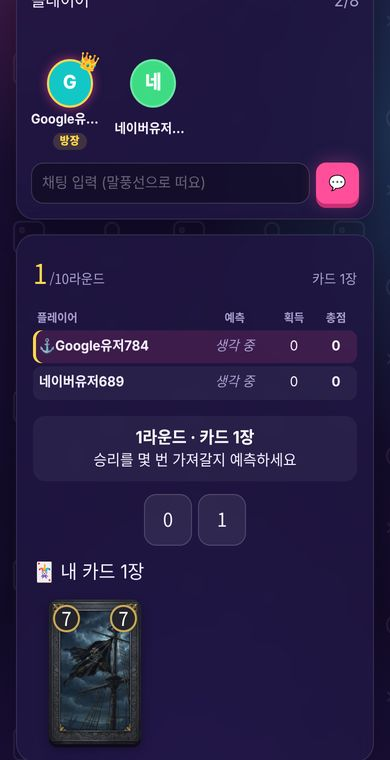
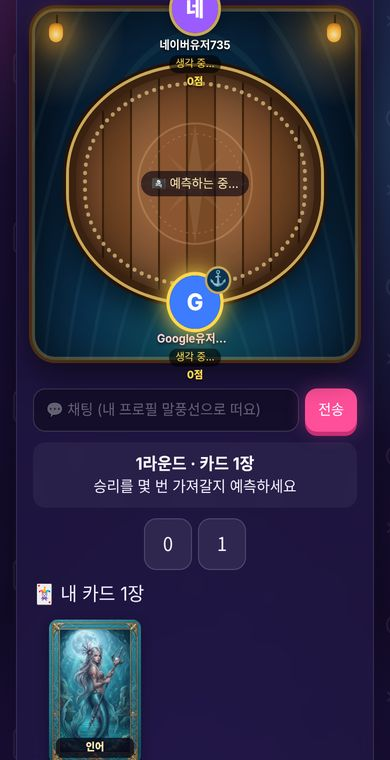
스컬킹: 해적선 갑판 테이블, 자리 배치, 카드 날아가기·승자에게 모으기, 채팅 말풍선
Claude-Session: https://claude.ai/code/session_018kcaK1YQGkv4UBC623yDa1

diff --git a/js/games/skullking.js b/js/games/skullking.js
@@ -154,7 +154,11 @@ export function cardHtml(id, { small = false } = {}) {
   return `<div class="skc ${small ? 'sm' : ''} sp-${c.kind}" title="${esc(cardName(c))}">${img}<span class="skc-name">${esc(cardName(c))}</span></div>`;
 }
 
-const fx = { bid: '', trick: '' };
+const fx = { bid: '', rk: '', tno: 0, hold: null, ckey: '', cnt: 0 };
+const HOLD_MS = 2800;
+const chat = { draft: '', focus: false };
+let lastCtx = null;
+const COMPASS = `<svg viewBox="0 0 100 100"><circle cx="50" cy="50" r="46" fill="none" stroke="currentColor" stroke-width="1.5"/><circle cx="50" cy="50" r="38" fill="none" stroke="currentColor" stroke-width=".8" stroke-dasharray="2 3"/><path d="M50 4 L56 44 L96 50 L56 56 L50 96 L44 56 L4 50 L44 44 Z" fill="currentColor" opacity=".55"/><path d="M50 18 L53 47 L82 50 L53 53 L50 82 L47 53 L18 50 L47 47 Z" fill="currentColor" opacity=".35" transform="rotate(45 50 50)"/><circle cx="50" cy="50" r="4" fill="currentColor"/></svg>`;
 
 // 라운드가 끝나면 새 창: 왼쪽 플레이어, 오른쪽 트릭별 기록
 function roundModal(state, me, players, finished, sendMove) {
@@ -313,14 +317,15 @@ export default {
         fx.bid = bk;
         bigFlash(`<div class="sk-yoho"><b>요호호! 🏴☠</b><div>${state.order.map((u) => `<span>${name(u)} <i>${state.bids[u]}</i></span>`).join('')}</div></div>`, 2200, 'sk-flash');
       }
-      // 트릭이 끝나면 누가 가져갔는지
-      const tk = `${bk}:${Object.values(state.won).join()}`;
-      if (state.lastTrick && fx.trick !== tk) {
-        const first = fx.trick === '';
-        fx.trick = tk;
-        if (!first) { bigFlash(`<div class="sk-win">⚓ <b>${name(state.lastTrick.winner)}</b>님이 가져갔어요!${state.lastTrick.note ? `<small>${esc(state.lastTrick.note)}</small>` : ''}</div>`, 1500, 'sk-flash'); sfxCard(); }
+      // 트릭이 끝나면 가운데에 잠깐 남겨 두었다가 이긴 사람에게 카드가 날아가요
+      const tno = Object.values(state.won).reduce((a, b) => a + b, 0);
+      if (fx.rk !== bk) { if (fx.rk) fx.cnt = 0; fx.rk = bk; fx.tno = tno; }
+      else if (tno > fx.tno && state.lastTrick) {
+        fx.tno = tno;
+        fx.hold = { k: `${bk}:${tno - 1}`, until: Date.now() + HOLD_MS, uid: state.lastTrick.winner };
       }
     }
+    lastCtx = { el, ctx, self: this };
     if (ui.key !== key) ui = { key, pick: null };
 
     const scoreTable = (withRound) => `
@@ -371,38 +376,128 @@ export default {
       banner = myTurn ? `<span><b>내 차례!</b> ${lead ? `기준 색 <b style="color:${SUITS[lead].color === '#23232b' ? '#c9c9d6' : SUITS[lead].color}">${SUITS[lead].name}</b>` : '카드를 내세요'}</span>` : `<span><b>${name(turnUid)}</b>님 차례</span>`;
     } else {
       banner = `<span><b>${state.ri + 1}라운드 끝!</b> 점수를 확인하세요</span>`;
-      action = `<button class="btn primary block" data-next>다음 라운드 (카드 ${state.rounds[state.ri + 1]}장) ▶</button>`;
+      action = state.ri < state.rounds.length - 1 ? `<button class="btn primary block" data-next>다음 라운드 (카드 ${state.rounds[state.ri + 1]}장) ▶</button>` : '';
     }
 
-    const trickView = (plays, winner) => `<div class="sk-trick">${plays.map((t) => `
-      <div class="sk-play ${winner === t.uid ? 'win' : ''}">${cardHtml(t.card, { small: true })}<span>${name(t.uid)}${t.as ? `<small>${t.as === 'pirate' ? '해적으로' : '도망으로'}</small>` : ''}</span></div>`).join('')}
-      ${state.phase === 'play' && plays === state.trick && plays.length < state.order.length ? `<div class="sk-play wait"><div class="skc sm empty">?</div><span>${name(turnUid)}</span></div>` : ''}
-    </div>`;
+    // ── 해적선 갑판: 나는 항상 아래 가운데 ──
+    const n = state.order.length;
+    const meIdx = Math.max(0, state.order.indexOf(me));
+    const tno = Object.values(state.won).reduce((a, b) => a + b, 0);
+    const holding = fx.hold && Date.now() < fx.hold.until && !state.trick.length && state.lastTrick;
+    const plays = holding ? state.lastTrick.plays : state.trick;
+    const tKey = holding ? fx.hold.k : `${room?.code}:${room?.startedAt}:${state.ri}:${tno}`;
+    const winU = holding ? state.lastTrick.winner : null;
+    const leader = state.order[state.leaderIdx];
+    const seats = state.order.map((u, k) => {
+      const i = (k - meIdx + n) % n;
+      const ang = Math.PI / 2 + (i / n) * Math.PI * 2;
+      const x = 50 + Math.cos(ang) * 43, y = 50 + Math.sin(ang) * 41;
+      const bid = state.bids[u];
+      const stat = state.phase === 'bid' ? (bid === null ? '<i class="think">생각 중…</i>' : '<i class="done">예측 완료</i>')
+        : `<span class="skx-bw ${bid !== null && state.won[u] === bid ? 'hit' : state.won[u] > bid ? 'over' : ''}">🎯${bid} · ⚔${state.won[u]}</span>`;
+      return `<div class="skx-seat ${u === me ? 'me' : ''} ${u === turnUid && !holding ? 'turn' : ''} ${winU === u ? 'win' : ''} ${y < 45 ? 'up' : ''}" data-u="${esc(u)}" style="left:${x}%;top:${y}%">
+        <span class="seat-bubble" data-bub="${esc(u)}"></span>
+        <span class="skx-face">${faceHtml(players[u] || { name: '?' })}${u === leader && state.phase !== 'roundEnd' ? '<i class="skx-lead" title="이번 트릭 선">⚓</i>' : ''}</span>
+        <b class="skx-name">${name(u)}</b>
+        ${stat}
+        <em class="skx-score">${state.scores[u]}점</em>
+      </div>`;
+    }).join('');
+    const cw = n <= 3 ? 60 : n === 4 ? 52 : n === 5 ? 42 : n === 6 ? 36 : 30;
+    const center = plays.length || state.phase === 'play' ? `<div class="skx-trick" style="--cw:${cw}px">${plays.map((t, k) => `
+        <div class="skx-slot ${winU === t.uid ? 'win' : ''}" data-i="${k}" data-from="${esc(t.uid)}">${cardHtml(t.card, { small: true })}<span>${name(t.uid)}</span></div>`).join('')}
+        ${!holding && state.phase === 'play' && plays.length < n ? `<div class="skx-slot wait"><div class="skc sm empty">?</div><span>${name(turnUid)}</span></div>` : ''}
+      </div>` : '';
+    const label = holding
+      ? `<div class="skx-cap win">⚓ <b>${name(winU)}</b> 승리!${state.lastTrick.note ? ` <em>${esc(state.lastTrick.note)}</em>` : ''}</div>`
+      : state.phase === 'play' ? `<div class="skx-cap">${lead ? `기준 색 <b style="color:${SUITS[lead].color === '#23232b' ? '#e8e8f0' : SUITS[lead].color}">${SUITS[lead].name}</b>` : `<b>${tno + 1}번째 트릭</b>`}</div>`
+      : state.phase === 'bid' ? `<div class="skx-cap">🏴☠ 예측하는 중…</div>` : '';
 
     el.innerHTML = `
-      <div class="sk">
+      <div class="sk skx">
         <div class="sk-head"><span class="sk-round">${state.ri + 1}<small>/${state.rounds.length}라운드</small></span><span class="sk-cards">카드 ${cards}장</span></div>
-        ${scoreTable(state.phase === 'roundEnd')}
-        ${state.phase === 'play' ? `<div class="sk-zone"><div class="sk-zone-t">🏴☠ 이번 트릭</div>${trickView(state.trick)}</div>` : ''}
+        <div class="skx-stage">
+          <i class="skx-lamp l"></i><i class="skx-lamp r"></i>
+          <div class="skx-deck"><div class="skx-rope"></div><div class="skx-compass">${COMPASS}</div>
+            <div class="skx-mid">${label}${center}</div>
+          </div>
+          ${seats}
+        </div>
+        ${isPlayer ? `<form class="sp-chat skx-chat"><input maxlength="60" placeholder="💬 채팅 (내 프로필 말풍선으로 떠요)" autocomplete="off" enterkeyhint="send"><button class="btn sm primary">전송</button></form>` : ''}
         <div class="nb-banner">${banner}</div>
         ${action}
         ${isPlayer && hand.length ? `
           <div class="ud-mine-title">🃏 내 카드 ${hand.length}장 ${myTurn ? '<small>낼 수 있는 카드만 밝게 보여요</small>' : ''}</div>
           <div class="sk-hand">${hand.map((id) => {
             const ok = myTurn && canPlay(myHand, state.trick, id);
-            return `<button class="sk-cardbtn ${ok ? 'ok' : ''} ${myTurn && !ok ? 'no' : ''} ${ui.pick === id ? 'sel' : ''}" data-card="${id}" ${myTurn && !ok ? 'disabled' : ''}>${cardHtml(id)}</button>`;
+            return `<button class="sk-cardbtn ${ok ? 'ok' : ''} ${myTurn && !ok ? 'no' : ''}" data-card="${id}" ${myTurn && !ok ? 'disabled' : ''}>${cardHtml(id)}</button>`;
           }).join('')}</div>` : ''}
       </div>`;
 
-    roundModal(state, me, players, finished, sendMove);
+    // 카드가 낸 사람 자리에서 가운데로 날아와요
+    const fromNew = fx.ckey === tKey ? fx.cnt : fx.ckey ? 0 : plays.length;
+    el.querySelectorAll('.skx-slot[data-i]').forEach(($s) => {
+      if (Number($s.dataset.i) < fromNew) return;
+      const $seat = el.querySelector(`.skx-seat[data-u="${CSS.escape($s.dataset.from)}"] .skx-face`);
+      if (!$seat) return;
+      const A = $seat.getBoundingClientRect(), B = $s.getBoundingClientRect();
+      $s.animate([
+        { transform: `translate(${A.left + A.width / 2 - B.left - B.width / 2}px, ${A.top + A.height / 2 - B.top - B.height / 2}px) scale(.45) rotate(-20deg)`, opacity: 0.4 },
+        { transform: 'translate(0,0) scale(1.08) rotate(3deg)', opacity: 1, offset: 0.8 },
+        { transform: 'none', opacity: 1 },
+      ], { duration: 520, easing: 'cubic-bezier(.3,.7,.3,1)' });
+      sfxCard();
+    });
+    fx.ckey = tKey; fx.cnt = plays.length;
+
+    // 잠깐 보여준 뒤 이긴 사람에게 카드를 모아 보내요
+    if (holding) {
+      const h = fx.hold;
+      clearTimeout(fx.t1); clearTimeout(fx.t2);
+      const flyAt = h.until - 650 - Date.now();
+      fx.t1 = setTimeout(() => {
+        const $w = el.querySelector(`.skx-seat[data-u="${CSS.escape(h.uid)}"] .skx-face`);
+        if (!$w) return;
+        const W = $w.getBoundingClientRect();
+        el.querySelectorAll('.skx-slot[data-i]').forEach(($s, k) => {
+          const B = $s.getBoundingClientRect();
+          $s.animate([{ transform: 'none', opacity: 1 }, { transform: `translate(${W.left + W.width / 2 - B.left - B.width / 2}px, ${W.top + W.height / 2 - B.top - B.height / 2}px) scale(.3) rotate(${k % 2 ? 25 : -25}deg)`, opacity: 0 }],
+            { duration: 560, delay: k * 50, easing: 'cubic-bezier(.5,0,.7,.4)', fill: 'forwards' });
+        });
+        sfxCard();
+      }, Math.max(0, flyAt));
+      fx.t2 = setTimeout(() => { fx.hold = null; if (lastCtx?.el.isConnected) lastCtx.self.render(lastCtx.el, lastCtx.ctx); }, Math.max(0, h.until - Date.now()) + 30);
+    }
+
+    if (!holding) roundModal(state, me, players, finished, sendMove);
+
+    // 채팅: 방 채팅으로 보내면 내 프로필 위 말풍선으로 떠요
+    const $cf = el.querySelector('.skx-chat');
+    if ($cf) {
+      const $in = $cf.querySelector('input');
+      $in.value = chat.draft;
+      $in.oninput = () => (chat.draft = $in.value);
+      $in.onfocus = () => (chat.focus = true);
+      $in.onblur = () => setTimeout(() => { if ($in.isConnected) chat.focus = false; }, 0);
+      if (chat.focus) $in.focus({ preventScroll: true });
+      $cf.onsubmit = (e) => {
+        e.preventDefault();
+        const text = $in.value.trim();
+        const $g = document.querySelector('.gchat');
+        if (!text || !$g) return;
+        $g.querySelector('input').value = text;
+        $g.requestSubmit();
+        chat.draft = ''; $in.value = '';
+      };
+    }
 
     el.querySelectorAll('[data-bid]').forEach((b) => (b.onclick = () => sendMove({ type: 'bid', bid: Number(b.dataset.bid) })));
     const $next = el.querySelector('[data-next]');
     if ($next) $next.onclick = () => sendMove({ type: 'next' });
     el.querySelectorAll('[data-card]').forEach((b) => (b.onclick = () => {
       if (!myTurn) return;
-      const id = b.dataset.card;
-      sendMove({ type: 'play', card: id });
+      b.classList.add('sel');
+      sendMove({ type: 'play', card: b.dataset.card });
     }));
   },
 };

diff --git a/css/style.css b/css/style.css
@@ -2848,3 +2848,66 @@ html.rk-on .vdock .vbtn { height: 34px; font-size: 13px; padding: 0 10px; }
   .sk-mall i { font-size: 9.5px; padding: 1px 5px; border-radius: 6px; }
 }
 .sk-mt .skc-n.r { display: none; }
+
+/* ───────── 스컬킹: 해적선 갑판 ───────── */
+.skx { gap: 10px; }
+.skx-stage { position: relative; aspect-ratio: 1 / 1.02; margin: 18px -4px 44px; border-radius: 26px;
+  background:
+    radial-gradient(circle at 8% 8%, rgba(255, 190, 90, .28), transparent 16%),
+    radial-gradient(circle at 92% 8%, rgba(255, 190, 90, .28), transparent 16%),
+    repeating-radial-gradient(ellipse at 50% 130%, rgba(120, 220, 230, .06) 0 3px, transparent 3px 22px),
+    radial-gradient(ellipse at 50% 115%, #146577, #0b3350 48%, #050e1d 92%);
+  box-shadow: inset 0 0 0 3px #4a2c12, inset 0 0 0 6px rgba(201, 168, 90, .35), inset 0 0 60px rgba(0, 0, 0, .55), 0 12px 30px rgba(0, 0, 0, .5); }
+.skx-stage::before { content: '🏴☠'; position: absolute; left: 50%; top: 2%; transform: translateX(-50%); font-size: 18px; opacity: .25; }
+.skx-lamp { position: absolute; top: 5%; width: 14px; height: 18px; border-radius: 6px 6px 8px 8px; background: radial-gradient(circle at 50% 60%, #fff2b0, #ffb02e 55%, #a0560a); box-shadow: 0 0 18px 6px rgba(255, 176, 46, .45); animation: skxFlicker 2.4s infinite alternate; }
+.skx-lamp.l { left: 6%; } .skx-lamp.r { right: 6%; animation-delay: -1.1s; }
+.skx-lamp::before { content: ''; position: absolute; left: 50%; top: -8px; width: 2px; height: 8px; background: #3a2410; }
+@keyframes skxFlicker { 0% { opacity: .85; box-shadow: 0 0 14px 4px rgba(255, 176, 46, .35); } 50% { opacity: 1; } 100% { opacity: .9; box-shadow: 0 0 22px 8px rgba(255, 176, 46, .5); } }
+.skx-deck { position: absolute; inset: 17% 12%; border-radius: 50% / 46%; overflow: hidden;
+  background:
+    radial-gradient(ellipse at center, transparent 35%, rgba(0, 0, 0, .55) 100%),
+    repeating-linear-gradient(90deg, #8a5530 0 26px, #4a2a12 26px 28px, #7a4a26 28px 54px, #4a2a12 54px 56px, #93603a 56px 82px, #4a2a12 82px 84px);
+  border: 7px solid #3a2110; box-shadow: 0 0 0 3px #c9a85a, 0 0 0 6px #241307, 0 16px 34px rgba(0, 0, 0, .65), inset 0 0 26px rgba(0, 0, 0, .55); }
+.skx-rope { position: absolute; inset: 7px; border-radius: 50% / 46%; border: 4px dotted rgba(222, 190, 128, .75); pointer-events: none; }
+.skx-compass { position: absolute; left: 50%; top: 50%; width: 52%; transform: translate(-50%, -50%); color: rgba(255, 226, 160, .2); pointer-events: none; }
+.skx-compass svg { display: block; width: 100%; }
+.skx-mid { position: absolute; inset: 0; z-index: 1; display: grid; place-content: center; justify-items: center; gap: 6px; padding: 0 6px; }
+.skx-cap { font-size: 12px; padding: 3px 10px; border-radius: 99px; background: rgba(10, 6, 20, .65); color: #ffe9b0; white-space: nowrap; }
+.skx-cap.win { font-size: 13.5px; color: #fff; background: rgba(10, 6, 20, .82); box-shadow: 0 0 0 2px #c9a85a, 0 0 16px rgba(255, 216, 77, .5); animation: skxPop .4s ease-out; white-space: normal; text-align: center; }
+.skx-cap.win b { color: #ffd84d; } .skx-cap.win em { font-style: normal; color: #4ee07a; font-weight: 800; font-size: 12px; }
+@keyframes skxPop { from { transform: scale(.6); opacity: 0; } to { transform: none; opacity: 1; } }
+.skx-trick { display: flex; flex-wrap: nowrap; gap: 3px; justify-content: center; }
+.skx-slot { display: grid; justify-items: center; gap: 1px; width: var(--cw); }
+.skx-slot .skc.sm { width: var(--cw); }
+.skx-slot .skc-n.r { display: none; }
+.skx-slot span { max-width: var(--cw); font-size: 9.5px; color: #ffe9b0; text-shadow: 0 1px 2px #000; overflow: hidden; text-overflow: ellipsis; white-space: nowrap; }
+.skx-slot.win .skc { box-shadow: 0 0 0 3px #ffd84d, 0 0 18px rgba(255, 216, 77, .85); transform: translateY(-4px) scale(1.08); transition: transform .3s; }
+.skx-slot.wait { opacity: .55; }
+.skx-slot.wait .skc.empty { width: var(--cw); animation: skxWait 1.2s infinite alternate; }
+@keyframes skxWait { to { border-color: #ffd84d; color: #ffd84d; } }
+/* 자리 */
+.skx-seat { position: absolute; z-index: 2; width: 76px; transform: translate(-50%, -50%); display: grid; justify-items: center; gap: 1px; }
+.skx-face { position: relative; width: 46px; height: 46px; border-radius: 50%; background: #2a1a10; box-shadow: 0 0 0 3px #c9a85a, 0 4px 10px rgba(0, 0, 0, .6); transition: transform .2s; }
+.skx-face > .pf { width: 100%; height: 100%; border-radius: 50%; overflow: hidden; display: grid; place-items: center; object-fit: cover; font-weight: 800; font-size: 20px; color: #fff; }
+.skx-face > .pf.char svg { width: 100%; height: 100%; }
+.skx-lead { position: absolute; right: -8px; top: -6px; font-style: normal; font-size: 13px; width: 20px; height: 20px; border-radius: 50%; display: grid; place-items: center; background: #0b3350; box-shadow: 0 0 0 2px #c9a85a; }
+.skx-seat.me .skx-face { box-shadow: 0 0 0 3px #ff4f9a, 0 4px 10px rgba(0, 0, 0, .6); }
+.skx-seat.turn .skx-face { transform: scale(1.1); animation: skxTurn 1s infinite alternate; }
+@keyframes skxTurn { from { box-shadow: 0 0 0 3px #ffd84d, 0 0 6px #ffd84d; } to { box-shadow: 0 0 0 3px #ffd84d, 0 0 22px 4px #ffd84d; } }
+.skx-seat.win .skx-face { animation: skxHop .5s ease-in-out 3; box-shadow: 0 0 0 3px #ffd84d, 0 0 20px #ffd84d; }
+@keyframes skxHop { 50% { transform: translateY(-8px) scale(1.1); } }
+.skx-name { max-width: 76px; font-size: 11px; color: #fff; text-shadow: 0 1px 3px #000; overflow: hidden; text-overflow: ellipsis; white-space: nowrap; margin-top: 2px; }
+.skx-seat.me .skx-name { color: #ffd1e6; }
+.skx-seat > i, .skx-bw { font-style: normal; font-size: 10px; padding: 1px 6px; border-radius: 99px; background: rgba(0, 0, 0, .6); color: #d8d2f0; white-space: nowrap; }
+.skx-seat > i.done { color: #4ee07a; } .skx-seat > i.think { color: #ffd84d; }
+.skx-bw.hit { color: #4ee07a; box-shadow: inset 0 0 0 1px #4ee07a; } .skx-bw.over { color: #ff7a8e; }
+.skx-score { font-style: normal; font-size: 10px; font-weight: 800; color: #ffd84d; text-shadow: 0 1px 2px #000; }
+.skx-seat.up .seat-bubble { bottom: auto; top: calc(100% + 4px); }
+.skx-seat.up .seat-bubble .bub::after { bottom: auto; top: -6px; border-top: 0; border-bottom: 6px solid #fff; }
+.skx-chat { margin-top: -30px; }
+.skx .sk-cardbtn.sel { transform: translateY(-14px); opacity: .5; }
+@media (orientation: landscape) and (max-height: 560px) {
+  .skx-stage { aspect-ratio: 2.1 / 1; margin: 14px 0 40px; }
+  .skx-deck { inset: 16% 14%; }
+}
+@media (orientation: landscape) and (max-height: 560px) { .skx-trick { --cw: 54px !important; } }

diff --git a/js/config.js b/js/config.js
@@ -1,6 +1,6 @@
 // 앱 이름
 export const APP_NAME = 'O게임';
-export const APP_VERSION = 'v10.33';
+export const APP_VERSION = 'v10.34';
 
 // Firebase 설정 — Firebase 콘솔 > 프로젝트 설정 > 내 앱 에서 복사한 값
 // apiKey를 비우면 "테스트 모드"로 동작합니다
